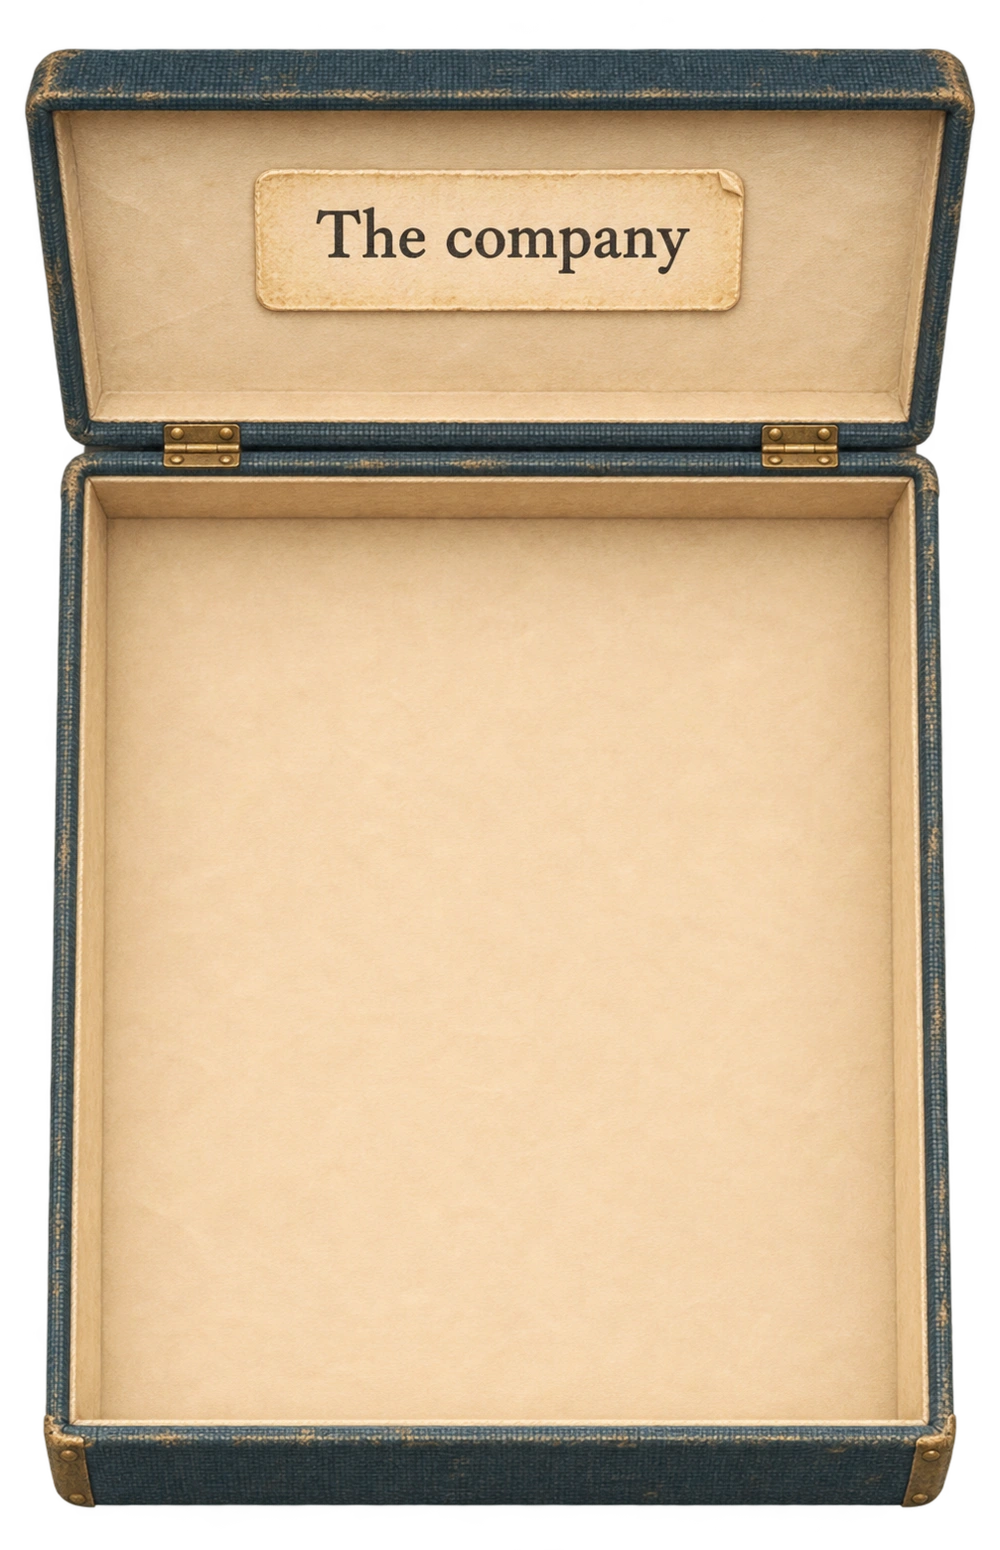
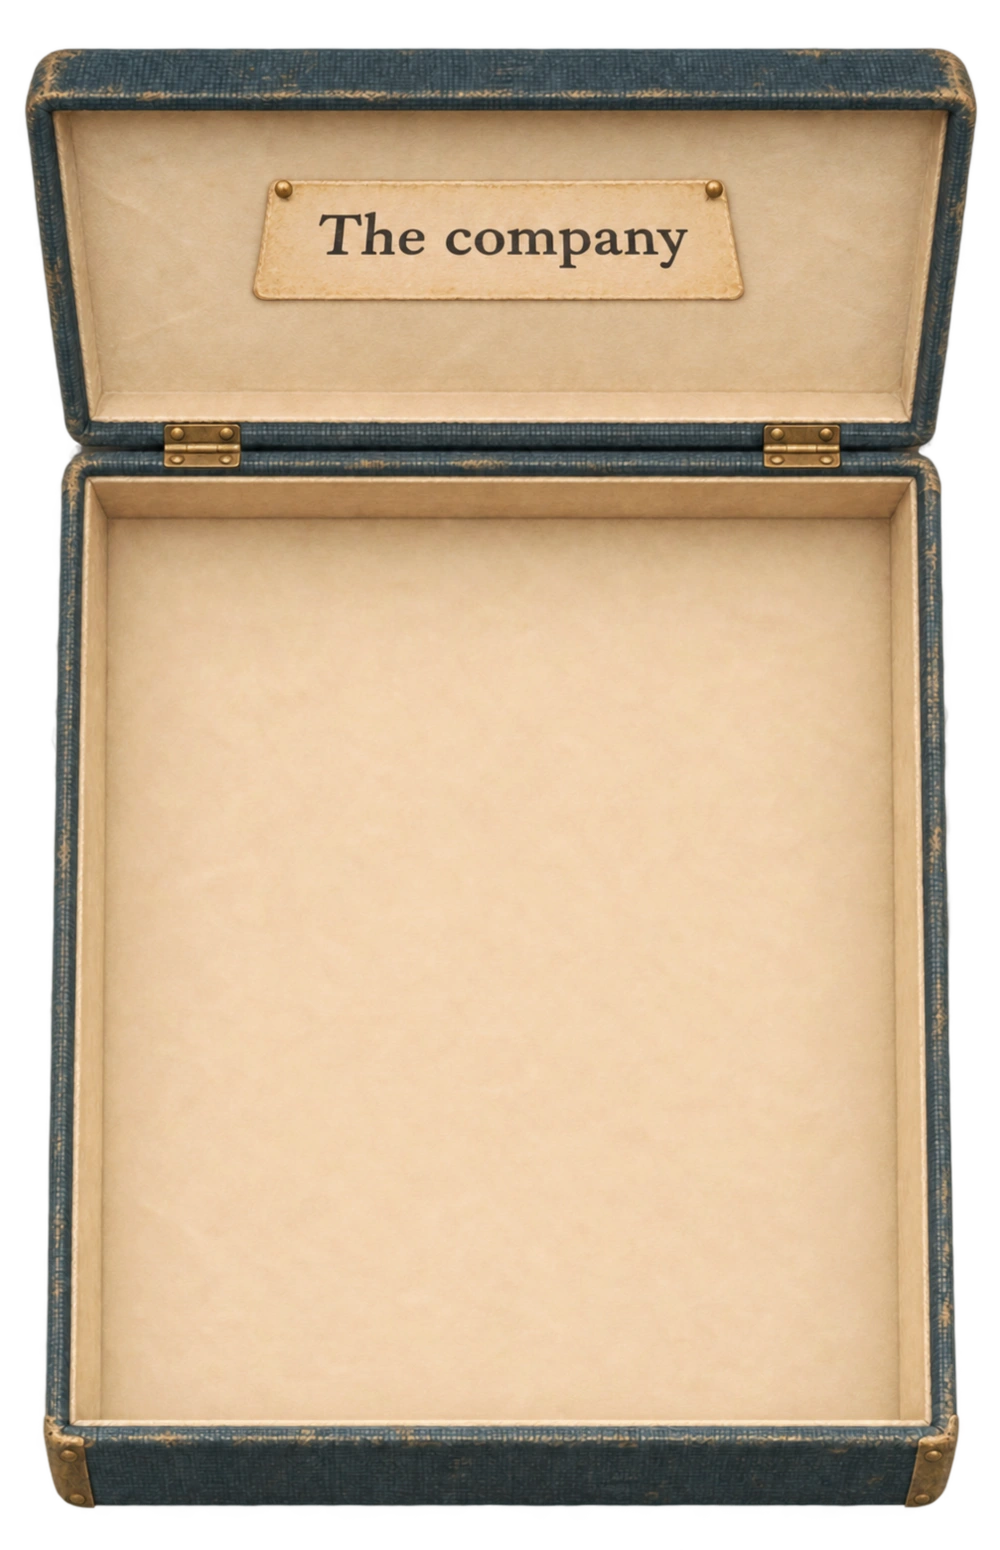
Pin the Company label to the photograph box lid

diff --git a/cats-by-post-interface/journey/index.html b/cats-by-post-interface/journey/index.html
@@ -18,9 +18,9 @@
 <dialog id="index-dialog" class="menu-sheet" aria-labelledby="index-title"><header class="dialog-head menu-heading"><img class="menu-icon heading-icon" src="icons/map-trifold.svg" alt="" width="24" height="24"><h2 id="index-title">Places to post</h2><button data-close="index-dialog" class="menu-close" aria-label="Back"><img class="menu-icon " src="icons/x.svg" alt="" width="24" height="24"></button></header><div id="index-content" class="dialog-content"></div></dialog>
 <dialog id="print-dialog" class="print-dialog" aria-labelledby="print-title"><header class="dialog-head"><h2 id="print-title">The delivery</h2><button data-close="print-dialog">Back</button></header><div id="print-content" class="dialog-content"></div></dialog>
 <dialog id="cats-dialog" class="company-dialog" aria-labelledby="cats-title"><h1 id="cats-title" class="sr-only">The company</h1></dialog>
-<dialog id="menu-dialog" class="menu-sheet" aria-labelledby="menu-title"><header class="dialog-head menu-heading"><h2 id="menu-title">Cats by Post</h2><button data-close="menu-dialog" class="menu-close" aria-label="Back to the map"><img class="menu-icon " src="icons/x.svg" alt="" width="24" height="24"></button></header><div class="dialog-content"><button id="menu-current" class="menu-row menu-current"></button><div class="service-pair"><button data-service="night" class="service-card night-card"><img class="menu-icon " src="icons/moon-stars.svg" alt="" width="24" height="24"><strong>Night Shift</strong><span>A weekly route, or one of your own.</span><img class="menu-icon service-arrow" src="icons/arrow-right.svg" alt="" width="24" height="24"></button><button data-service="daily" class="service-card daily-card"><img class="menu-icon " src="icons/calendar-blank.svg" alt="" width="24" height="24"><strong>Today’s post</strong><span>One fresh puzzle, every day.</span><img class="menu-icon service-arrow" src="icons/arrow-right.svg" alt="" width="24" height="24"></button></div><nav class="menu-routes" aria-label="Around the sorting desk"><button data-menu-destination="places" class="menu-row"><img class="menu-icon " src="icons/map-trifold.svg" alt="" width="24" height="24"><span><strong>Places to post</strong></span><img class="menu-icon row-arrow" src="icons/caret-right.svg" alt="" width="24" height="24"></button><button data-menu-destination="cats" class="menu-row"><img class="menu-icon " src="icons/images.svg" alt="" width="24" height="24"><span><strong>The company</strong></span><img class="menu-icon row-arrow" src="icons/caret-right.svg" alt="" width="24" height="24"></button><button data-service="settings" class="menu-row"><img class="menu-icon " src="icons/gear-six.svg" alt="" width="24" height="24"><span><strong>Settings</strong></span><img class="menu-icon row-arrow" src="icons/caret-right.svg" alt="" width="24" height="24"></button><button data-service="help" class="menu-row"><img class="menu-icon " src="icons/cursor-click.svg" alt="" width="24" height="24"><span><strong>How to play</strong></span><img class="menu-icon row-arrow" src="icons/caret-right.svg" alt="" width="24" height="24"></button></nav><footer class="menu-foot"><button id="about-study">About this prototype</button><a href="layouts.html?v=box-9">Layouts</a></footer></div></dialog>
-<dialog id="about-dialog" class="menu-sheet" aria-labelledby="about-title"><header class="dialog-head menu-heading"><img class="menu-icon heading-icon" src="icons/info.svg" alt="" width="24" height="24"><h2 id="about-title">A journey in the making</h2><button data-close="about-dialog" class="menu-close" aria-label="Back"><img class="menu-icon " src="icons/x.svg" alt="" width="24" height="24"></button></header><div class="dialog-content"><p>Map → place → chapter packet → letter → playable delivery.</p><p>This is a separate interface prototype with its own example journey and saved route. The office example begins with three deliveries posted; the depot example starts later in the journey. The first forty deliveries use the existing game’s rooms and rules; four later places show the planned journey.</p><p>The map has no enclosing paper edge. Its artwork and world coordinates can grow with new places; the direct index and chapter packets keep individual letters manageable.</p><p>Phone shows one focused object. iPad Mini-sized widths and larger screens put the map beside the open post. Starting a delivery gives the board the full screen. Pause stays a precision tool.</p><p><a href="layouts.html?v=box-9">See the phone and two-pane views</a></p><p><a href="../album-directions/evolved/">Return to the earlier studies</a></p><button id="reset-example">Start the example journey again</button></div></dialog>
+<dialog id="menu-dialog" class="menu-sheet" aria-labelledby="menu-title"><header class="dialog-head menu-heading"><h2 id="menu-title">Cats by Post</h2><button data-close="menu-dialog" class="menu-close" aria-label="Back to the map"><img class="menu-icon " src="icons/x.svg" alt="" width="24" height="24"></button></header><div class="dialog-content"><button id="menu-current" class="menu-row menu-current"></button><div class="service-pair"><button data-service="night" class="service-card night-card"><img class="menu-icon " src="icons/moon-stars.svg" alt="" width="24" height="24"><strong>Night Shift</strong><span>A weekly route, or one of your own.</span><img class="menu-icon service-arrow" src="icons/arrow-right.svg" alt="" width="24" height="24"></button><button data-service="daily" class="service-card daily-card"><img class="menu-icon " src="icons/calendar-blank.svg" alt="" width="24" height="24"><strong>Today’s post</strong><span>One fresh puzzle, every day.</span><img class="menu-icon service-arrow" src="icons/arrow-right.svg" alt="" width="24" height="24"></button></div><nav class="menu-routes" aria-label="Around the sorting desk"><button data-menu-destination="places" class="menu-row"><img class="menu-icon " src="icons/map-trifold.svg" alt="" width="24" height="24"><span><strong>Places to post</strong></span><img class="menu-icon row-arrow" src="icons/caret-right.svg" alt="" width="24" height="24"></button><button data-menu-destination="cats" class="menu-row"><img class="menu-icon " src="icons/images.svg" alt="" width="24" height="24"><span><strong>The company</strong></span><img class="menu-icon row-arrow" src="icons/caret-right.svg" alt="" width="24" height="24"></button><button data-service="settings" class="menu-row"><img class="menu-icon " src="icons/gear-six.svg" alt="" width="24" height="24"><span><strong>Settings</strong></span><img class="menu-icon row-arrow" src="icons/caret-right.svg" alt="" width="24" height="24"></button><button data-service="help" class="menu-row"><img class="menu-icon " src="icons/cursor-click.svg" alt="" width="24" height="24"><span><strong>How to play</strong></span><img class="menu-icon row-arrow" src="icons/caret-right.svg" alt="" width="24" height="24"></button></nav><footer class="menu-foot"><button id="about-study">About this prototype</button><a href="layouts.html?v=label-10">Layouts</a></footer></div></dialog>
+<dialog id="about-dialog" class="menu-sheet" aria-labelledby="about-title"><header class="dialog-head menu-heading"><img class="menu-icon heading-icon" src="icons/info.svg" alt="" width="24" height="24"><h2 id="about-title">A journey in the making</h2><button data-close="about-dialog" class="menu-close" aria-label="Back"><img class="menu-icon " src="icons/x.svg" alt="" width="24" height="24"></button></header><div class="dialog-content"><p>Map → place → chapter packet → letter → playable delivery.</p><p>This is a separate interface prototype with its own example journey and saved route. The office example begins with three deliveries posted; the depot example starts later in the journey. The first forty deliveries use the existing game’s rooms and rules; four later places show the planned journey.</p><p>The map has no enclosing paper edge. Its artwork and world coordinates can grow with new places; the direct index and chapter packets keep individual letters manageable.</p><p>Phone shows one focused object. iPad Mini-sized widths and larger screens put the map beside the open post. Starting a delivery gives the board the full screen. Pause stays a precision tool.</p><p><a href="layouts.html?v=label-10">See the phone and two-pane views</a></p><p><a href="../album-directions/evolved/">Return to the earlier studies</a></p><button id="reset-example">Start the example journey again</button></div></dialog>
 <div id="opening" class="opening" hidden role="status"><img src="images/envelope.webp" alt=""><p id="opening-text">Opening the letter…</p><button id="retry-game" hidden>Try opening again</button><button id="cancel-opening">Back to the map</button></div>
 <div id="toast" class="toast" role="status" hidden></div><div id="announcement" class="sr-only" aria-live="polite"></div>
-<script src="model.js"></script><script src="company-model.js?v=box-9"></script><script src="company-box.js?v=box-9"></script><script src="journey.js?v=box-9"></script>
+<script src="model.js"></script><script src="company-model.js?v=box-9"></script><script src="company-box.js?v=label-10"></script><script src="journey.js?v=box-9"></script>
 </body></html>

diff --git a/cats-by-post-interface/journey/company-box.js b/cats-by-post-interface/journey/company-box.js
@@ -10,7 +10,7 @@ window.CompanyBox={create({dialog,getProgress,onNight,getReturnFocus}){
  function render(){
   const current=selected&&state.arrived.find(c=>c.id===selected),previous=current&&M.neighbour(state,current.id,-1),next=current&&M.neighbour(state,current.id,1),invitation=state.next;
   dialog.classList.toggle('viewing-photo',!!current);
-  dialog.innerHTML=`<h1 id="cats-title" class="sr-only">The company</h1><div class="company-room"><button class="company-back" id="company-back">${icon('arrow-left')}<span>${current?'The box':'Put away'}</span></button><div class="company-layout"><section class="box-index" aria-label="Photographs in the box"><div class="open-photo-box"><img class="photo-box-art" src="images/photo-box-open.webp" alt="An open navy photograph box, labelled The company" width="1007" height="1561"><div class="photo-well" id="photo-well"><div class="coat-grid">${state.arrived.map(c=>`<button class="coat-slot ${c.id===selected?'is-selected':''}" data-coat="${c.id}" aria-label="Look at the ${esc(c.name)} photograph" ${c.id===selected?'aria-current="true"':''}>${photo(c,true)}</button>`).join('')}</div></div><button class="box-browse" id="more-photos" hidden><span>More photographs</span>${icon('arrow-down')}</button></div><p class="box-tally">${ready?`${state.arrived.length} of ${state.coats.length} coats in the box`:'The photographs are arriving…'}</p><section class="next-coat-note" aria-label="Next coat invitation">${invitation?`<h2>${esc(invitation.name)}</h2><p>${invitation.at} cats home in Night Shift</p><div class="coat-progress"><progress max="${invitation.at}" value="${state.total}" aria-label="Progress toward ${esc(invitation.name)}"></progress><span>${ready?`${Math.min(state.total,invitation.at)} / ${invitation.at}`:'…'}</span></div>`:`<h2>Everyone’s here.</h2><p>All eight coat photographs are in the box.</p>`}<button id="cats-night" class="company-night" ${ready?'':'disabled'}>${icon('moon-stars')}<span>Work a Night Shift</span>${icon('arrow-right')}</button></section></section><section class="photo-view" aria-label="Selected coat photograph" ${current?'':'hidden'}>${current?`<div class="lifted-print ${reverse?'is-reversed':''}" id="lifted-print" tabindex="0" role="group" aria-label="${esc(current.name)} photograph, ${reverse?'reverse':'front'}. Swipe or use arrow keys to browse.">${reverse?`<div class="print-reverse"><img class="coat-paper" src="images/photo-mount.webp" alt="" width="1090" height="1244"><div class="reverse-writing"><h2>${esc(current.name)}</h2><p>${esc(current.note)}</p><p class="coat-origin">${label(current)}</p></div></div>`:photo(current)}</div><div class="photo-actions"><button id="photo-previous" ${previous?'':'disabled'} aria-label="${previous?'Previous photograph, '+esc(previous.name):'First photograph'}">${icon('arrow-left')}<span>${previous?esc(previous.name):'First'}</span></button><button id="photo-turn">${icon('arrow-counter-clockwise')}<span>${reverse?'The photograph':'Turn over'}</span></button><button id="photo-next" ${next?'':'disabled'} aria-label="${next?'Next photograph, '+esc(next.name):'Last photograph'}"><span>${next?esc(next.name):'Last'}</span>${icon('arrow-right')}</button></div><p class="photo-position" aria-live="polite">${state.arrived.indexOf(current)+1} of ${state.arrived.length} photographs</p>`:''}</section></div></div>`;
+  dialog.innerHTML=`<h1 id="cats-title" class="sr-only">The company</h1><div class="company-room"><button class="company-back" id="company-back">${icon('arrow-left')}<span>${current?'The box':'Put away'}</span></button><div class="company-layout"><section class="box-index" aria-label="Photographs in the box"><div class="open-photo-box"><img class="photo-box-art" src="images/photo-box-open.webp?v=label-10" alt="An open navy photograph box, labelled The company" width="1007" height="1561"><div class="photo-well" id="photo-well"><div class="coat-grid">${state.arrived.map(c=>`<button class="coat-slot ${c.id===selected?'is-selected':''}" data-coat="${c.id}" aria-label="Look at the ${esc(c.name)} photograph" ${c.id===selected?'aria-current="true"':''}>${photo(c,true)}</button>`).join('')}</div></div><button class="box-browse" id="more-photos" hidden><span>More photographs</span>${icon('arrow-down')}</button></div><p class="box-tally">${ready?`${state.arrived.length} of ${state.coats.length} coats in the box`:'The photographs are arriving…'}</p><section class="next-coat-note" aria-label="Next coat invitation">${invitation?`<h2>${esc(invitation.name)}</h2><p>${invitation.at} cats home in Night Shift</p><div class="coat-progress"><progress max="${invitation.at}" value="${state.total}" aria-label="Progress toward ${esc(invitation.name)}"></progress><span>${ready?`${Math.min(state.total,invitation.at)} / ${invitation.at}`:'…'}</span></div>`:`<h2>Everyone’s here.</h2><p>All eight coat photographs are in the box.</p>`}<button id="cats-night" class="company-night" ${ready?'':'disabled'}>${icon('moon-stars')}<span>Work a Night Shift</span>${icon('arrow-right')}</button></section></section><section class="photo-view" aria-label="Selected coat photograph" ${current?'':'hidden'}>${current?`<div class="lifted-print ${reverse?'is-reversed':''}" id="lifted-print" tabindex="0" role="group" aria-label="${esc(current.name)} photograph, ${reverse?'reverse':'front'}. Swipe or use arrow keys to browse.">${reverse?`<div class="print-reverse"><img class="coat-paper" src="images/photo-mount.webp" alt="" width="1090" height="1244"><div class="reverse-writing"><h2>${esc(current.name)}</h2><p>${esc(current.note)}</p><p class="coat-origin">${label(current)}</p></div></div>`:photo(current)}</div><div class="photo-actions"><button id="photo-previous" ${previous?'':'disabled'} aria-label="${previous?'Previous photograph, '+esc(previous.name):'First photograph'}">${icon('arrow-left')}<span>${previous?esc(previous.name):'First'}</span></button><button id="photo-turn">${icon('arrow-counter-clockwise')}<span>${reverse?'The photograph':'Turn over'}</span></button><button id="photo-next" ${next?'':'disabled'} aria-label="${next?'Next photograph, '+esc(next.name):'Last photograph'}"><span>${next?esc(next.name):'Last'}</span>${icon('arrow-right')}</button></div><p class="photo-position" aria-live="polite">${state.arrived.indexOf(current)+1} of ${state.arrived.length} photographs</p>`:''}</section></div></div>`;
   const well=dialog.querySelector('#photo-well'),browse=dialog.querySelector('#more-photos');
   const updateBrowse=()=>{const needed=well.clientHeight>0&&well.scrollHeight>well.clientHeight+8,atEnd=well.scrollTop+well.clientHeight>=well.scrollHeight-8;browse.hidden=!needed;well.parentElement.classList.toggle('has-more',needed);browse.innerHTML=`<span>${atEnd?'First photographs':'More photographs'}</span>${icon(atEnd?'arrow-up':'arrow-down')}`};
   well.scrollTop=wellScroll;well.onscroll=e=>{wellScroll=e.target.scrollTop;updateBrowse()};

diff --git a/cats-by-post-interface/journey/layouts.html b/cats-by-post-interface/journey/layouts.html
@@ -2,14 +2,14 @@
 <style>
 @font-face{font-family:Balthazar;src:url(../assets/balthazar.ttf)}@font-face{font-family:Signika;src:url(../assets/signika.ttf)}*{box-sizing:border-box}body{margin:0;background:#f1ecdf;color:#273f43;font:18px/1.5 Signika,sans-serif}main{max-width:1250px;margin:auto;padding:30px 24px}h1,h2,p{margin:0}h1,h2{font:400 44px/1.05 Balthazar,serif}p{max-width:63ch;margin:15px 0}button,select,a{font:inherit;min-height:44px}button,select{padding:9px 13px;color:#273f43;background:#fbf2dd;border:1px solid #ac9670;border-radius:3px}button{cursor:pointer}button[aria-pressed=true]{background:#273f43;color:#fbf2dd}a{color:#963f32;text-underline-offset:4px}button:focus-visible,a:focus-visible,select:focus-visible{outline:3px solid #963f32;outline-offset:4px}.controls{display:flex;gap:10px;flex-wrap:wrap;margin:24px 0 18px;align-items:center}.controls label{display:flex;gap:10px;align-items:center}.open{display:inline-flex;align-items:center;min-height:48px;background:#273f43;color:#fbf2dd;text-decoration:none;padding:10px 20px;margin:4px 0 25px}.preview{position:relative;overflow:hidden;background:#e5d5b5;width:100%}iframe{position:absolute;top:0;left:50%;border:0;transform-origin:top left;background:#f5ecd7}h2{font-size:32px;margin-top:25px}.note{font-size:16px;color:#5f655b}.links{display:flex;gap:25px;flex-wrap:wrap}footer{margin:30px 0 10px;border-top:1px solid #c4b395;padding-top:20px}@media(max-width:600px){h1{font-size:39px}main{padding:25px 18px}.controls{gap:8px}.controls button{font-size:16px;padding-inline:11px}}
 </style></head><body><main><h1>The journey at two sizes</h1><p>One flow: map, packet, addressed letter, playable board. The wider view keeps the map beside your post; opening a delivery gives the board the full screen.</p>
-<a id="open-prototype" class="open" href="index.html?v=box-9">Open the prototype full screen</a>
+<a id="open-prototype" class="open" href="index.html?v=label-10">Open the prototype full screen</a>
 <div class="controls" role="group" aria-label="Preview size"><button id="phone" aria-pressed="true">iPhone</button><button id="duo" aria-pressed="false">iPad Mini / Duo</button><button id="ipad" aria-pressed="false">iPad landscape</button><label for="example">Journey<select id="example"><option value="office">At the office</option><option value="depot">At the depot</option></select></label></div>
-<div id="preview" class="preview"><iframe id="preview-frame" title="Interactive Cats by Post layout preview" src="index.html?v=box-9"></iframe></div>
+<div id="preview" class="preview"><iframe id="preview-frame" title="Interactive Cats by Post layout preview" src="index.html?v=label-10"></iframe></div>
 <p id="size-note" class="note">390 × 844. Open full screen for comfortable play on your phone.</p>
 <h2>The letter is still the invitation</h2><p>Tap the next envelope to see the delivery, take a closer look at the print tucked inside, then start sorting on its actual board. Or choose a place and browse its chapter packets. Returning from a delivery keeps your map position and your unfinished arrangement.</p><p>The depot example gives you a longer chapter to browse. Each example has its own prototype save.</p>
-<footer><p class="links"><a href="index.html?example=depot&v=box-9">Open the depot example</a><a href="../album-directions/evolved/">Earlier visual studies</a></p><p class="note">A separate prototype. The compact two-pane view uses 768 × 1024; the full-screen app adapts to the available space.</p></footer>
+<footer><p class="links"><a href="index.html?example=depot&v=label-10">Open the depot example</a><a href="../album-directions/evolved/">Earlier visual studies</a></p><p class="note">A separate prototype. The compact two-pane view uses 768 × 1024; the full-screen app adapts to the available space.</p></footer>
 </main><script>
 let chosen='phone';const sizes={phone:[390,844],duo:[768,1024],ipad:[1024,768]},$=id=>document.getElementById(id);
 function resize(){const[w,h]=sizes[chosen],scale=Math.min(1,$('preview').clientWidth/w);$('preview').style.height=h*scale+'px';Object.assign($('preview-frame').style,{width:w+'px',height:h+'px',transform:'translateX('+(-w*scale/2)+'px) scale('+scale+')'});$('size-note').textContent=w+' × '+h+'. '+(scale<.7?'This is a reduced preview. Rotate your phone for a larger look, or open the responsive prototype full screen.':'The preview is interactive. Open full screen for comfortable play.');for(const name of Object.keys(sizes))$(name).setAttribute('aria-pressed',String(name===chosen))}
-for(const name of Object.keys(sizes))$(name).onclick=()=>{chosen=name;resize()};$('example').onchange=()=>{const url='index.html?v=box-9&example='+$('example').value;$('preview-frame').src=url;$('open-prototype').href=url};new ResizeObserver(resize).observe($('preview'));resize();
+for(const name of Object.keys(sizes))$(name).onclick=()=>{chosen=name;resize()};$('example').onchange=()=>{const url='index.html?v=label-10&example='+$('example').value;$('preview-frame').src=url;$('open-prototype').href=url};new ResizeObserver(resize).observe($('preview'));resize();
 </script></body></html>
